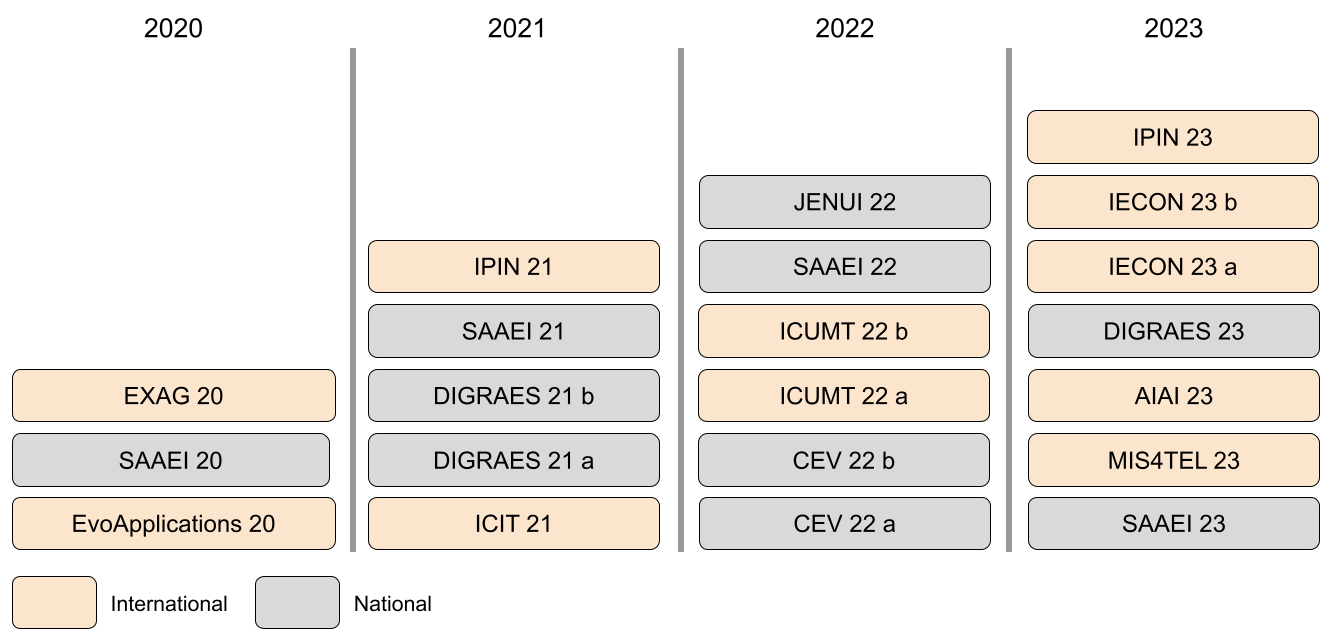
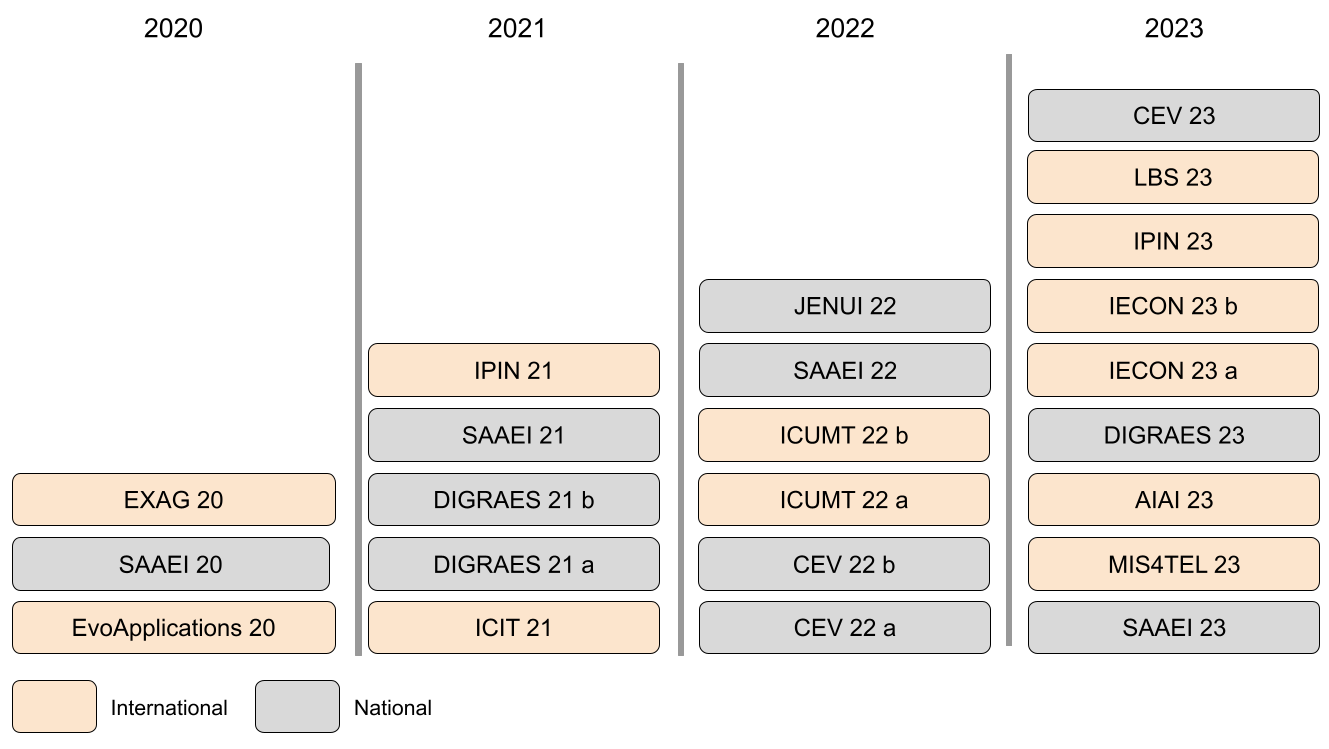
new pubs

diff --git a/publications.html b/publications.html
@@ -96,6 +96,22 @@
 				</div>
 			</div>
 
+			<div class="row animate-box">
+				<div class="col-md-8 col-md-offset-2 text-center heading-section">
+					<p>Raúl Montoliu, Alejandro Estaben, César Díaz, Sergi Fuster, Diego Pérez-Liebana. 
+					<b>TotalBotWar: An Innovative AI Challenge and Competition for Pseudo Real-time Multi-action Games</b> 2nd Congreso Español de Videojuegos (CEV'23), ACCEPTED. 
+            		</p>
+				</div>
+			</div>	
+
+			<div class="row animate-box">
+				<div class="col-md-8 col-md-offset-2 text-center heading-section">
+					<p>Gaetano Luca De Palma, Antoni Perez-Navarro, Raul Montoliu. 
+					<b> Convolutional Neural Network as sensor fusion algorithm applied to IPIN2019 dataset</b> 18th International Conference on Location Based Services (LBS'23), ACCEPTED. 
+            		</p>
+				</div>
+			</div>	
+
 
 			<div class="row animate-box">
 				<div class="col-md-8 col-md-offset-2 text-center heading-section">
